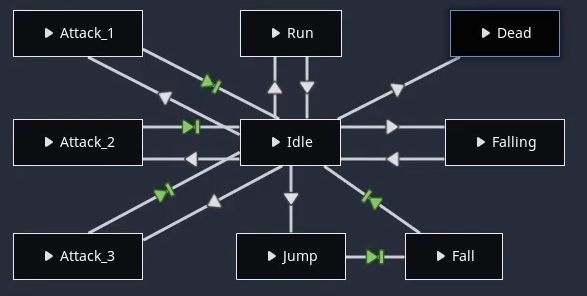
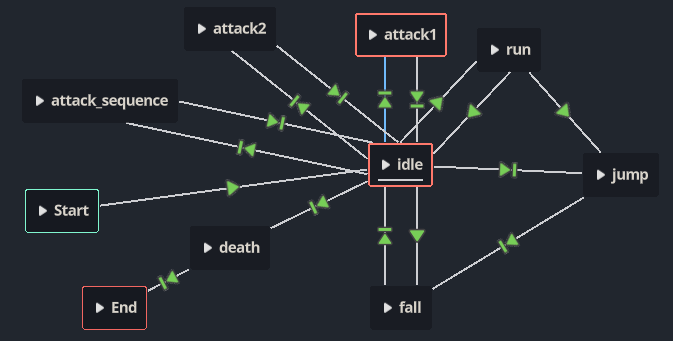
Animation Tree done

diff --git a/animation_tree/readme.md b/animation_tree/readme.md
@@ -3,13 +3,17 @@
 - [Problématique](#problématique)
 - [Solution](#solution)
 - [Préparation](#préparation)
-- [AnimationTree](#animationtree)
+  - [Godot 3.5](#godot-35)
+  - [Godot 4.x](#godot-4x)
+- [Créer l'animation](#créer-lanimation)
   - [Étape 1 : Convertir le noeud `Player` en scène.](#étape-1--convertir-le-noeud-player-en-scène)
   - [Étape 2 : Ajouter un noeud `Camera2D`](#étape-2--ajouter-un-noeud-camera2d)
   - [Étape 3 : Ajouter un noeud `Sprite`](#étape-3--ajouter-un-noeud-sprite)
   - [Étape 4 : Ajouter un noeud `AnimationPlayer`](#étape-4--ajouter-un-noeud-animationplayer)
 - [Ajouter un noeud `AnimationTree`](#ajouter-un-noeud-animationtree)
-- [La machine à état fini](#la-machine-à-état-fini)
+- [Programmer les transitions entre les états](#programmer-les-transitions-entre-les-états)
+  - [Étape 1 : Objets pour la gestion de l'animation](#étape-1--objets-pour-la-gestion-de-lanimation)
+  - [Étape 2 : Ajouter les méthodes pour gérer les transitions](#étape-2--ajouter-les-méthodes-pour-gérer-les-transitions)
 - [Référence](#référence)
 
 # Problématique
@@ -19,6 +23,12 @@ Une situation courante : vous avez un grand nombre d'animations, et il devient d
 Utilisez un `AnimationTree` pour créer une machine à états d'animation. Cela nous permettra d'organiser nos animations et, surtout, de contrôler les transitions entre elles.
 
 # Préparation
+
+> **Attention!** Ce document a été partiellement mis à jour. La partie `Créer l'animation` a été développé à l'aide de Godot 3 et n'a pas été mis à jour. Cependant, il y a très peu de changement pour Godot 4.
+> 
+> La partie `AnimationTree` a été mis à jour pour Godot 4.
+
+## Godot 3.5
 Dans le cadre de ce document, j'utiliserai mon dépôt de code [yt](https://github.com/nbourre/yt) et plus précisément la version [vBase_done](https://github.com/nbourre/yt/releases/tag/vBase_done).
 
 Ce dernier contient le projet de base pour pour mes [vidéos YouTube](https://www.youtube.com/playlist?list=PLxPgLp3aTOhcEs_Rv0nXWXDHrxr83MVOB) sur la création d'un jeu de plateforme.
@@ -27,7 +37,19 @@ Voici à quoi ressemble le projet de base.
 
 ![](assets/platformer_demo.gif)
 
-# AnimationTree
+## Godot 4.x
+Pour la partie `AnimationTree`, j'utiliserai le projet [`c08_parallax`](https://github.com/nbourre/0sw_projets_cours/tree/master/c08_parallax) et plus spécifiquement la branche `cours_animTree`.
+
+```bash	
+cd # dans le répertoire des projets du cours
+git pull
+git checkout cours_animTree
+``` 
+
+Voici à quoi ressemblera le projet à la fin du document.
+![Alt text](assets/AnimationTree_done.gif)
+
+# Créer l'animation
 
 Pour utiliser l'`AnimationTree`, il faut avoir un noeud `AnimationPlayer` et ce dernier nécessite un noeud `Sprite`.
 
@@ -56,7 +78,7 @@ Le noeud `Sprite` permettra d'ajouter facilement les images au noeud `AnimationP
    - Il s'agit des propriétés `Hframes` et `Vframes` de la section `Animation`
 
 ## Étape 4 : Ajouter un noeud `AnimationPlayer`
-Le noeud `AnimationPlayer` permet de gérer les animations.
+Le noeud `AnimationPlayer` permet, entre autres, de gérer les animations.
 
 1. Ajouter un noeud `AnimationPlayer`.
 2. Dans le volet inférieur nommé « Animation », ajouter une nouvelle animation appelée « Idle »
@@ -119,11 +141,11 @@ Avant d'utiliser le noeud, il faut établir les différents états du personnage
 
 Les étapes de base seront les suivantes :
 
-1. Ajouter un noeud `AnimationTree`
+1. Ajouter un noeud `AnimationTree` au personnage
    - Un **volet `AnimationTree`** apparaîtra dans le bas de l'IDE.
 2. Sélectionner le type de machine que l'on désire avec la propriété `Tree Root`.
    - Dans notre cas, ce sera un `AnimationNodeStateMachine`
-   - **Note :** Personnallement, n'ayant fait que du 2D, je n'ai exploré que l'option `AnimationNodeStateMachine`.
+   - **Note :** Personnallement, n'ayant fait que du 2D, je n'ai exploré que l'option `AnimationNodeStateMachine`. Il se peut que vous ayez exploré d'autres options selon les tutoriels que vous avez suivi.
 3. Associer l'`AnimationPlayer` que l'on désire gérer.
    - Dans notre cas, on n'a qu'un noeud `AnimationPlayer`.
 
@@ -135,9 +157,9 @@ Les étapes de base seront les suivantes :
  
 ![](assets/AnimationTree_add_state.gif)
 
-5. Répéter l'opération précédente en ajoutant l'animation `run`.
+5. Répéter l'opération précédente en ajoutant l'animation `running`.
    - On peut tester l'animation.
-6. Répèter l'opération précédente en ajoutant l'animation d'attaque.
+6. Répèter l'opération précédente en ajoutant l'animation `attack1`.
    - Tester l'animation.
    - On remarque que l'attaque "gèle" après s'être exécutée. La raison est que l'animation ne boucle pas. Il faudra ajouter une transition pour qu'elle reviennent à l'état `idle`.
 
@@ -146,11 +168,11 @@ Les étapes de base seront les suivantes :
 7. Ajouter une transition d'`idle` vers l'attaque.
    - Dans la petite barre d'outils, il y a une petite flèche avec une ligne (3e bouton). Ce bouton sert à ajouter des transitions entre les états.
    - Pour ajouter une transition, il faut cliquer-glisser de l'état source et vers l'état destination.
-8. Tester l'aniamtion d'attaque
+8. Tester l'animation d'attaque
    - Il gèle encore, car il n'y a pas de transition de l'attaque vers l'`idle`.
 9. Ajouter une transition entre l'état "attaque" vers `idle`.
 10. Tester l'attaque.
-    - Il gèle encore, car la transition ne se fait pas automatiquement.
+    - L'animation "gig", car elle passe successivement de l'`idle` à l'attaque et à l'`idle`. 
  
 ![](assets/AnimationTree_attack_transition.gif)
 
@@ -159,29 +181,92 @@ Les étapes de base seront les suivantes :
 
 ![](assets/AnimationTree_switchmode.gif)
 
-13. Activer la propriété `Auto Advance`
+13. Das les propriétés `Advance`, configurer le mode pour `Auto`
 
 ![](assets/AnimationTree_attack_complete.png)
 
 14. Tester l'attaque
     - Tout devrait fonctionner.
 15. Ajouter les transitions entre `run` et `idle`.
-    - Laisser les transitions telles quelles, car la gestion se fera dans le code.
+    - Laisser les transitions telles quelles, car la n dn se fera dans le code.
 16. Ajouter l'ensemble des animations.
     - Le saut devra être composé de `jump` et `fall`.
     - Il devra avoir un état `fall` seul avec des transitions aller-retour avec `idle`. La gestion se fera dans le code.
-17. Définir `dead` comme étant l'état de fin. Il suffit de sélectionner l'état et de cliquer sur le bouton `end` (6e bouton.
-18. Définir l'état `idle`, comme étant l'état de début avec le bouton `begin` (5e bouton).
+17. L'état `idle` sera l'état initial. Faire une transition entre `Start` et `idle`.
+18. Définir `dead` comme étant l'état de fin. Il suffit de sélectionner l'état et de faire une transition vers `End`.
 
 ![](assets/AnimationTree_completed.png)
 
+La configuration de l'`AnimationTree` est terminée. Il est maintenant temps de passer à la programmation.
+
 ---
 
-# La machine à état fini
+# Programmer les transitions entre les états
 
-TODO : Compléter cette partie. Src : https://www.gdquest.com/tutorial/godot/design-patterns/finite-state-machine/
+Comme indiquer précédement, il faudra gérer les transitions entre les états dans le code.
+
+Godot possède une mécanisme géniale qui permet de simplifier la gestion des transitions. En effet, il y a une classe nommée `AnimationNodeStateMachinePlayback` qui permet de "voyager" d'un état à un autre automatiquement.
+
+## Étape 1 : Objets pour la gestion de l'animation
+Dans la classe `Player.cs`, créer les deux membres suivants :
+
+```csharp
+AnimationTree animTree;
+AnimationNodeStateMachinePlayback stateMachine;
+```
+
+Dans la méthode `_Ready()`, ajouter le code suivant :
+
+```csharp
+animTree = GetNode<AnimationTree>("AnimationTree");
+animTree.Active = true;
+
+// Récupère le paramètre "parameters/playback" de l'animation tree
+stateMachine = (AnimationNodeStateMachinePlayback)animTree.Get("parameters/playback");
+
+```
+
+Dans Godot, la méthode `GodotObject.Get` permet de récupérer les propriétés d'un noeud. Dans notre cas, on récupère la propriété `playback` de l'`AnimationTree` qui est un [`AnimationNodeStateMachinePlayback`](https://docs.godotengine.org/en/stable/classes/class_animationnodestatemachineplayback.html).
+
+Pour connaître la chaîne du paramètre, il suffit de sélectionner le noeud dans l'IDE et de cliquez avec le bouton droit sur la propriété qui nous intéresse. Un menu contextuel apparaîtra et il suffit de sélectionner `Copier le chemin de la propriété`.
+
+![Alt text](assets/copy_property_path.gif)
+
+## Étape 2 : Ajouter les méthodes pour gérer les transitions
+Pour passer d'un état à l'autre, on utilise la méthode `AnimationNodeStateMachinePlayback.Travel` qui prend en paramètre le nom de l'état de destination.
+
+Cette méthode trouve le chemin le plus court pour passer de l'état actuel à l'état de destination.
+
+Dans le `if (isOnFloor())...`, il y a le `else` qui vérifie si le vecteur d'entrée est différent de zéro. Modifier cette partie pour avoir ce code.
+
+```csharp
+if (inputVector != Vector2.Zero) {
+    stateMachine.Travel("run");
+} else {
+    stateMachine.Travel("idle");
+}
+```
+Pour la portion aérienne où l'on retrouve le `if (!isOnFloor()...)`, modifier le code pour le suivant:
+
+```csharp
+if (!IsOnFloor()){
+    if (velocity.Y < 0) {
+        GD.Print("rising");
+        stateMachine.Travel("jump");
+    } 
+    if (velocity.Y > 0) {
+        GD.Print("falling");
+        stateMachine.Travel("fall");
+    }
+}
+```
+
+Si tout fonctionne bien, on devrait avoir un résultat similaire à celui-ci.
+
+![Alt text](assets/AnimationTree_done.gif)
 
 ---
 
 # Référence
 - [KidsCanCode.org : Controlling animation states](https://kidscancode.org/godot_recipes/3.x/animation/animation_state_machine/)
+- [GDQuest - Finite state machine](https://www.gdquest.com/tutorial/godot/design-patterns/finite-state-machine/)
